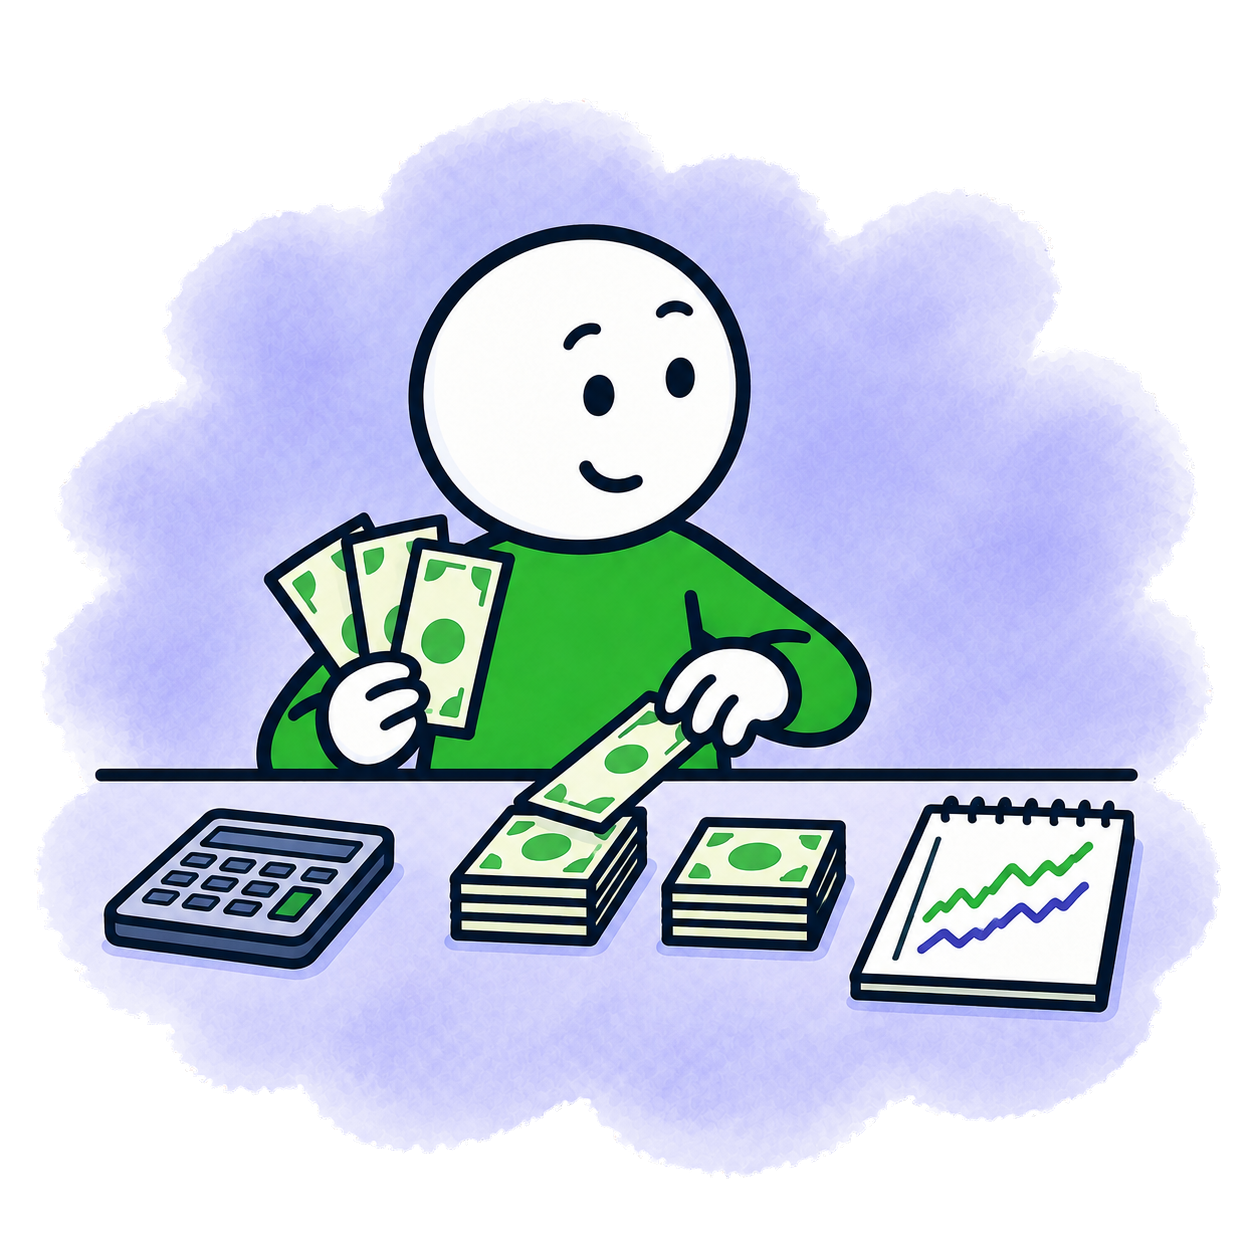
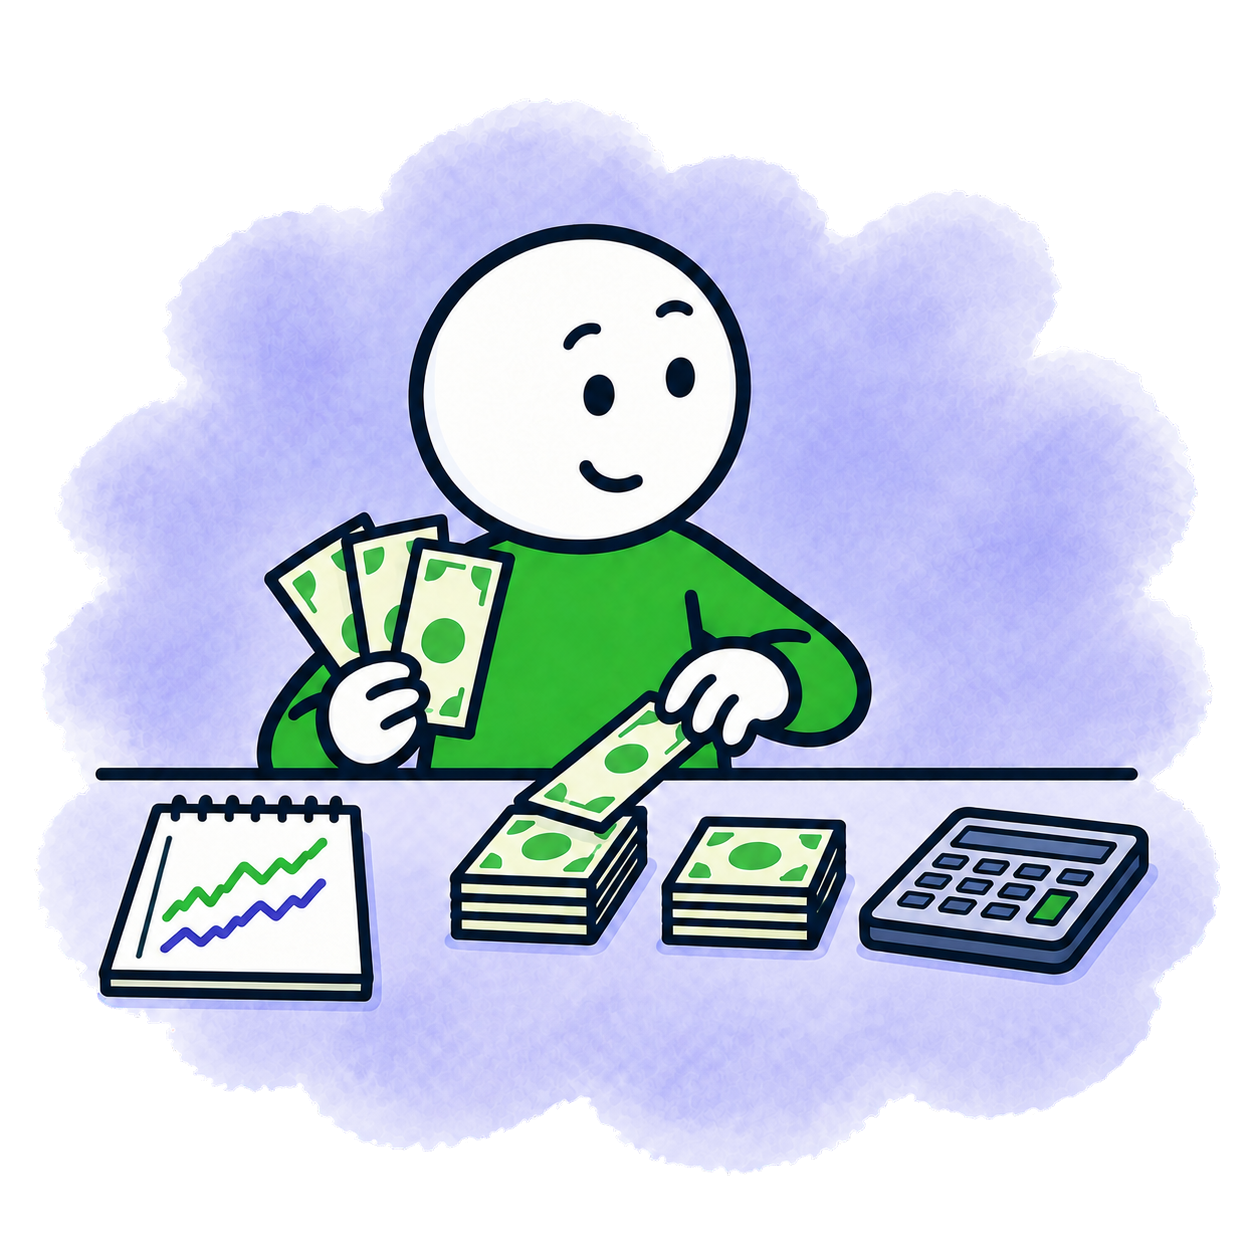
Move the stock course calculator to the right
Refs #401

diff --git a/_docs/design/references/course-variety-revision.md b/_docs/design/references/course-variety-revision.md
@@ -77,8 +77,8 @@ uv run --script .agents/skills/website-illustrations/scripts/finish_chroma.py \
 - Raw output: `.tmp/course-illustration-variety-20260915/raw/sma.png`
[1 lines of base64/hex data omitted]
 - Original tool output: `/home/alexey/.codex/generated_images/01a0a479-3d2f-7991-9ca7-bf120c70bac4/exec-f9e5c15e-b9fc-4d72-8cc7-e8205ada1879.png`
[4 lines of base64/hex data omitted]
 
 ```text
 Use case: stylized-concept
@@ -97,6 +97,35 @@ Finishing command:
 uv run --script .agents/skills/website-illustrations/scripts/finish_chroma.py \
   .tmp/course-illustration-variety-20260915/raw/sma.png \
   .tmp/course-illustration-variety-20260915/final4/sma \
+  --solid-key-chroma 230 --key-noise-alpha 0.05
+```
+
+### Calculator-side correction
+
+The first variety revision put the calculator on the viewer-left. The corrected
+asset swaps the notebook and calculator while preserving the money-counting pose.
+
+- Raw output: `.tmp/course-illustration-variety-20260915/sma-calculator-side/source-keyed.png`
[1 lines of base64/hex data omitted]
+- Original tool output: `/home/alexey/.codex/generated_images/01a0a479-3d2f-7991-9ca7-bf120c70bac4/exec-15beb6ad-a6d5-4d7f-bc9a-7fc59e8956bd.png`
+
+```text
+Use case: precise-object-edit
+Asset type: Stock Market Analytics Zoomcamp light-theme website illustration.
+Input images: Image 1 is the exact composition and subject anchor to edit. Image 2 guides only the established DataTalks.Club drawing style and clean watercolor edge.
+Primary request: Correct the prop layout by swapping the calculator and notebook positions. Place the calculator on the VIEWER-RIGHT side of the tabletop, immediately to the right of the two money stacks. Place the small chart notebook on the VIEWER-LEFT side of the tabletop. Do not mirror or rotate either object, and do not alter the learner's left/right orientation.
+Preserve: the exact one-person money-counting action, face, body, green shirt, both connected arms and hands, fan of bills, bill being placed, two money stacks, table line, overall scale, palette, navy outlines, broad lavender watercolor shape, and 1254x1254 square canvas. The learner must still look down and count money, with the same hand positions. Keep exactly one calculator and one notebook.
+Style/medium: clean hand-drawn editorial watercolor; simple opaque foreground fills, crisp slightly irregular navy ink, forest green and indigo accents, broad calm pale-lavender wash.
+Scene/backdrop: Return the complete illustration with its own lavender wash on one perfectly uniform opaque saturated magenta #ff00ff exterior chroma backdrop. All four borders are key. No simulated transparency, checkerboard, white rectangle, gradient, or texture in the outer key.
+Constraints: change only the calculator/notebook placement and the small surrounding wash needed to integrate them. No added or removed money, no text, currency symbols, flags, numbers, logos, extra limbs, pointing, presentation screen, or robot. No compression blocks, ringing, grain, speckles, cellular facets, polygon texture, malformed fingers, hard cutout, white halo, or key-colored details inside the art.
+```
+
+Finishing command:
+
+```sh
+uv run --script .agents/skills/website-illustrations/scripts/finish_chroma.py \
+  .tmp/course-illustration-variety-20260915/sma-calculator-side/source-keyed.png \
+  .tmp/course-illustration-variety-20260915/sma-calculator-side/final \
   --solid-key-chroma 230 --key-noise-alpha 0.05
 ```
 
